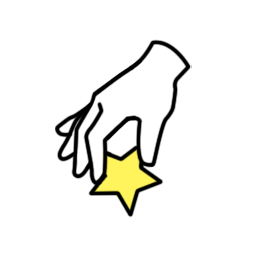
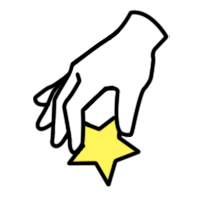
블록 모양 색 변경

Changed region(s): [[0.15, 0.03, 0.87, 0.93]]

diff --git a/public/js/blocks.js b/public/js/blocks.js
@@ -8,10 +8,10 @@ Blocks["start"] = {
     cn: "%1 入门"
   },
   args0: [
-    {type: "field_image", src: "/img/start.png"}
+    {type: "field_image", src: "/img/kidsblocks/Start.png"}
   ],
   argsh0: [
-    {type: "field_image", src: "/img/kidsblocks/Start.png"}
+    {type: "field_image", src: "/img/kidsblocks/Start.png", width: 32, height: 32}
   ],
   previousStatement: false
 };
@@ -685,10 +685,10 @@ Blocks["move_up"] = {
     cn: "%1 向上移"
   },
   args0: [
-    {type: "field_image", src: "/img/up.png"}
+    {type: "field_image", src: "/img/kidsblocks/up_icon.svg"}
   ],
   argsh0: [
-    {type: "field_image", src: "/img/kidsblocks/mUp.png"}
+    {type: "field_image", src: "/img/kidsblocks/up_icon.svg", width: 36, height: 36}
   ],
   action: ["move", "up"]
 };
@@ -700,10 +700,10 @@ Blocks["move_down"] = {
     cn: "%1 向下移"
   },
   args0: [
-    {type: "field_image", src: "/img/down.png"}
+    {type: "field_image", src: "/img/kidsblocks/down_icon.svg"}
   ],
   argsh0: [
-    {type: "field_image", src: "/img/kidsblocks/mDown.png"}
+    {type: "field_image", src: "/img/kidsblocks/down_icon.svg", width: 36, height: 36}
   ],
   action: ["move", "down"]
 };
@@ -715,10 +715,10 @@ Blocks["move_left"] = {
     cn: "%1 向左移"
   },
   args0: [
-    {type: "field_image", src: "/img/left.png"}
+    {type: "field_image", src: "/img/kidsblocks/left_icon.svg"}
   ],
   argsh0: [
-    {type: "field_image", src: "/img/kidsblocks/mLeft.png"}
+    {type: "field_image", src: "/img/kidsblocks/left_icon.svg", width: 36, height: 36}
   ],
   action: ["move", "left"]
 };
@@ -730,10 +730,10 @@ Blocks["move_right"] = {
     cn: "%1 向右移"
   },
   args0: [
-    {type: "field_image", src: "/img/right.png"}
+    {type: "field_image", src: "/img/kidsblocks/right_icon.svg"}
   ],
   argsh0: [
-    {type: "field_image", src: "/img/kidsblocks/mRight.png"}
+    {type: "field_image", src: "/img/kidsblocks/right_icon.svg", width: 36, height: 36}
   ],
   action: ["move", "right"]
 };
@@ -848,13 +848,13 @@ Blocks["sub_digit"] = {
   // }]
 };
 Blocks["move_forward1"] = {
-  colour: 260,
+  colour: "#F28C00",
   message0: {
     ko: "%1 앞으로 가기",
     en: "%1 Move Forward"
   },
   args0: [
-    {type: "field_image", src: "/img/move_forward.png"}
+    {type: "field_image", src: "/img/kidsblocks/up_icon.svg"}
   ],
   action: ["move", "forward"]
 };
@@ -898,7 +898,7 @@ Blocks["jump_forward"] = {
     en: "%1 Jump Forward"
   },
   args0: [
-    {type: "field_image", src: "/img/move_forward.png"}
+    {type: "field_image", src: "/img/kidsblocks/up_icon.svg"}
   ],
   action: ["move", "jump_forward"]
 };
@@ -909,7 +909,7 @@ Blocks["move_forward2"] = {
     en: "%1 Move Forward Twice"
   },
   args0: [
-    {type: "field_image", src: "/img/move_forward.png"}
+    {type: "field_image", src: "/img/kidsblocks/up_icon.svg"}
   ],
   action: ["func", {
     type: "repeat",
@@ -926,7 +926,7 @@ Blocks["move_forward3"] = {
     en: "%1 Move Forward Three Times"
   },
   args0: [
-    {type: "field_image", src: "/img/move_forward.png"}
+    {type: "field_image", src: "/img/kidsblocks/up_icon.svg"}
   ],
   action: ["func", {
     type: "repeat",
@@ -943,7 +943,7 @@ Blocks["move_forward4"] = {
     en: "%1 Move Forward Four Times"
   },
   args0: [
-    {type: "field_image", src: "/img/move_forward.png"}
+    {type: "field_image", src: "/img/kidsblocks/up_icon.svg"}
   ],
   action: ["func", {
     type: "repeat",
@@ -971,24 +971,24 @@ Blocks["empty"] = {
   action: ["", ""]
 };
 Blocks["rotate_left"] = {
-  colour: 90,
+  colour: "#60B12F",
   message0: {
     ko: "%1 왼쪽으로 돌기",
     en: "%1 Turn Left"
   },
   args0: [
-    {type: "field_image", src: "/img/rotate_left.png"}
+    {type: "field_image", src: "/img/kidsblocks/left_turn_icon.svg"}
   ],
   action: ["rotate", "couter_clock_wise"]
 };
 Blocks["rotate_right"] = {
-  colour: 120,
+  colour: "#34BEEF",
   message0: {
     ko: "%1 오른쪽으로 돌기",
     en: "%1 Turn Right"
   },
   args0: [
-    {type: "field_image", src: "/img/rotate_right.png"}
+    {type: "field_image", src: "/img/kidsblocks/right_turn_icon.svg"}
   ],
   action: ["rotate", "clock_wise"]
 };
@@ -999,7 +999,7 @@ Blocks["get_item"] = {
     en: "%1 Get Item"
   },
   args0: [
-    {type: "field_image", src: "/img/get_item.png"}
+    {type: "field_image", src: "/img/kidsblocks/Bring.png"}
   ],
   argsh0: [
     {type: "field_image", src: "/img/kidsblocks/Bring.png"}
@@ -1045,7 +1045,7 @@ Blocks["get_item_notuse"] = {
     en: "%1 Get Item"
   },
   args0: [
-    {type: "field_image", src: "/img/get_item.png"}
+    {type: "field_image", src: "/img/kidsblocks/Bring.png"}
   ],
   argsh0: [
     {type: "field_image", src: "/img/kidsblocks/Bring.png"}
@@ -1091,7 +1091,7 @@ Blocks["use_item"] = {
     en: "%1 Use Item"
   },
   args0: [
-    {type: "field_image", src: "/img/get_item.png"}
+    {type: "field_image", src: "/img/kidsblocks/Using.png"}
   ],
   argsh0: [
     {type: "field_image", src: "/img/kidsblocks/Using.png"}
@@ -1105,7 +1105,7 @@ Blocks["get_item2"] = {
     en: "%1 Get Item"
   },
   args0: [
-    {type: "field_image", src: "/img/get_item.png"}
+    {type: "field_image", src: "/img/kidsblocks/Bring.png"}
   ],
   argsh0: [
     {type: "field_image", src: "/img/kidsblocks/Bring.png"}
@@ -1119,7 +1119,7 @@ Blocks["get_item2_split"] = {
     en: "%1 Get Item"
   },
   args0: [
-    {type: "field_image", src: "/img/get_item.png"}
+    {type: "field_image", src: "/img/kidsblocks/Bring.png"}
   ],
   argsh0: [
     {type: "field_image", src: "/img/kidsblocks/Bring.png"}
@@ -1133,7 +1133,7 @@ Blocks["use_item2"] = {
     en: "%1 Use Item"
   },
   args0: [
-    {type: "field_image", src: "/img/get_item.png"}
+    {type: "field_image", src: "/img/kidsblocks/Using.png"}
   ],
   argsh0: [
     {type: "field_image", src: "/img/kidsblocks/Using.png"}
@@ -1147,7 +1147,7 @@ Blocks["get_item3"] = {
     en: "%1 Get Item"
   },
   args0: [
-    {type: "field_image", src: "/img/get_item.png"}
+    {type: "field_image", src: "/img/kidsblocks/Bring.png"}
   ],
   argsh0: [
     {type: "field_image", src: "/img/kidsblocks/Bring.png"}
@@ -1162,7 +1162,7 @@ Blocks["check"] = {
     cn: "%1 检查"
   },
   args0: [
-    {type: "field_image", src: "/img/check.png"}
+    {type: "field_image", src: "/img/kidsblocks/check.png"}
   ],
   argsh0: [
     {type: "field_image", src: "/img/kidsblocks/check.png"}
@@ -1177,7 +1177,7 @@ Blocks["check2"] = {
     cn: "%1 检查"
   },
   args0: [
-    {type: "field_image", src: "/img/check.png"}
+    {type: "field_image", src: "/img/kidsblocks/check.png"}
   ],
   argsh0: [
     {type: "field_image", src: "/img/kidsblocks/check.png"}
@@ -1192,7 +1192,7 @@ Blocks["checkfinish"] = {
     cn: "%1 检查"
   },
   args0: [
-    {type: "field_image", src: "/img/check.png"}
+    {type: "field_image", src: "/img/kidsblocks/check.png"}
   ],
   argsh0: [
     {type: "field_image", src: "/img/kidsblocks/check.png"}
@@ -1770,7 +1770,7 @@ Blocks["item_scissors"] = {
     en: "%1 Scissors"
   },
   args0: [
-    {type: "field_image", src: "/img/hand_scissors.png"}
+    {type: "field_image", src: "/img/kidsblocks/Scissors.png"}
   ],
   argsh0: [
     {type: "field_image", src: "/img/kidsblocks/Scissors.png"}
@@ -1784,7 +1784,7 @@ Blocks["item_rock"] = {
     en: "%1 Rock"
   },
   args0: [
-    {type: "field_image", src: "/img/hand_rock.png"}
+    {type: "field_image", src: "/img/kidsblocks/Rock.png"}
   ],
   argsh0: [
     {type: "field_image", src: "/img/kidsblocks/Rock.png"}
@@ -1798,7 +1798,7 @@ Blocks["item_paper"] = {
     en: "%1 Paper"
   },
   args0: [
-    {type: "field_image", src: "/img/hand_paper.png"}
+    {type: "field_image", src: "/img/kidsblocks/Paper.png"}
   ],
   argsh0: [
     {type: "field_image", src: "/img/kidsblocks/Paper.png"}

diff --git a/public/js/kidscoding.js b/public/js/kidscoding.js
@@ -83,7 +83,41 @@ KidsCoding = function() {
 
       return metrics;
     }
-  } else if(this.blockType == "default") {
+    var renderDraw_ = Blockly.BlockSvg.prototype.renderDraw_;
+    // 필드 이미지 크기에 따른 가운데 정렬
+    Blockly.BlockSvg.prototype.renderDraw_ = function(arg) {
+      renderDraw_.call(this, arg);
+      if(arg.imageField) {
+        var imageField = arg.imageField,
+            svgRoot = imageField.getSvgRoot(),
+            xy = svgRoot.getAttribute("transform").match(/translate\(([+-]?\d*\.?\d*),([+-]?\d*\.?\d*)\)/),
+            x = +xy[1] - (40-imageField.size_.width)/2,
+            y = +xy[2] - (40-imageField.size_.height)/2;
+        svgRoot.setAttribute("transform", "translate(" + x + "," + y + ")");
+      }
+    }
+  } else if(this.blockType == "vertical") {
+    var renderFields_ = Blockly.BlockSvg.prototype.renderFields_,
+        renderCompute_ = Blockly.BlockSvg.prototype.renderCompute_;
+    // 필드 이미지 세로 위치 조정
+    Blockly.BlockSvg.prototype.renderFields_ = function(a, b, c) {
+      var ret = renderFields_.call(this, a, b, c);
+      if(a[0].imageElement_) {
+        var svgRoot = a[0].getSvgRoot(),
+            xy = svgRoot.getAttribute("transform").match(/translate\(([+-]?\d*\.?\d*),([+-]?\d*\.?\d*)\)/);
+        svgRoot.setAttribute("transform", "translate(" + +xy[1] + "," + (+xy[2]+3) + ")");
+      }
+      return ret;
+    };
+    // 필드 이미지 가로 위치 조정
+    Blockly.BlockSvg.prototype.renderCompute_ = function(arg) {
+      var ret = renderCompute_.call(this, arg);
+      if(ret[0][0].fieldRow[0].imageElement_) {
+        ret[0].paddingStart = 30 - ret[0][0].fieldRow[0].size_.width/2;
+      }
+      return ret;
+    };
+  } else {
     var labelInit = Blockly.FieldLabel.prototype.init;
     // 텍스트 라벨의 위치 조정
     Blockly.FieldLabel.prototype.init = function() {
